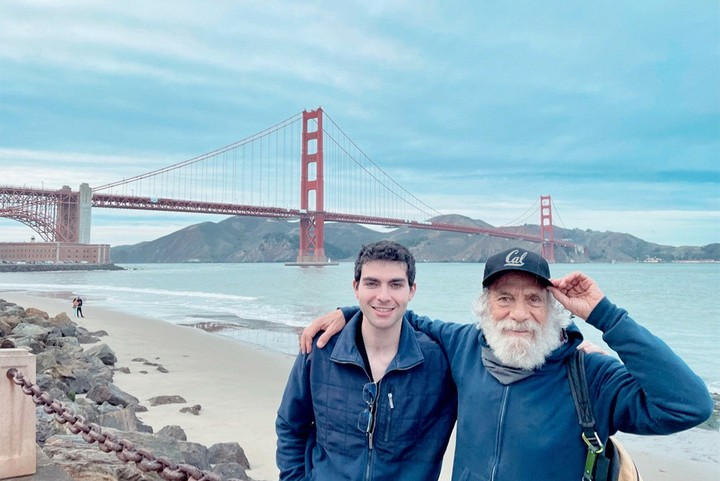
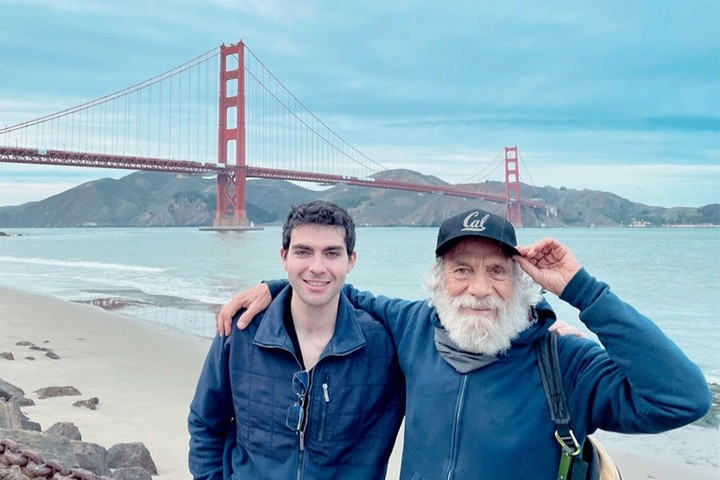
Crop left edge of Education photo and zoom in slightly
Claude-Session: https://claude.ai/code/session_011dJNaTKHXbVpMdEHN5mwW5

diff --git a/index.html b/index.html
@@ -174,7 +174,7 @@ footer .in{border-top:1px solid var(--rule);padding-top:18px}
 
 <section id="education" class="lst">
 <h2>Education</h2>
-<img class="sf" src="sf.jpg" alt="At the Golden Gate Bridge, San Francisco" width="720" height="481">
+<img class="sf" src="sf.jpg?v=2" alt="At the Golden Gate Bridge, San Francisco" width="720" height="480">
 <ul class="edu">
   <li>University of California, Berkeley<span class="v">B.A., Economics, Highest Distinction</span></li>
   <li>UCLA School of Law<span class="v">J.D., Dean’s Scholar</span></li>
